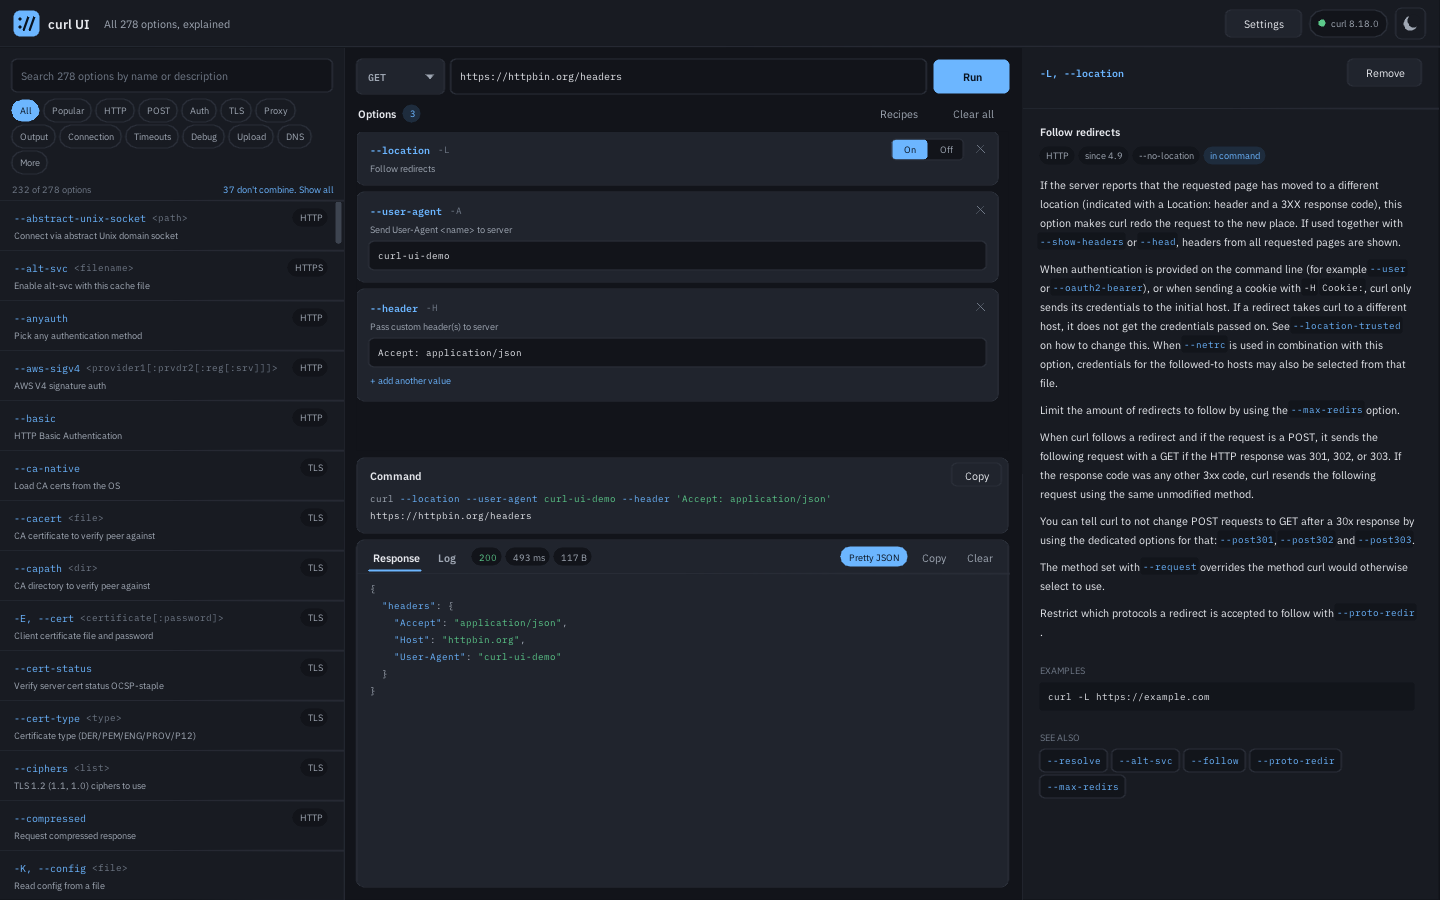
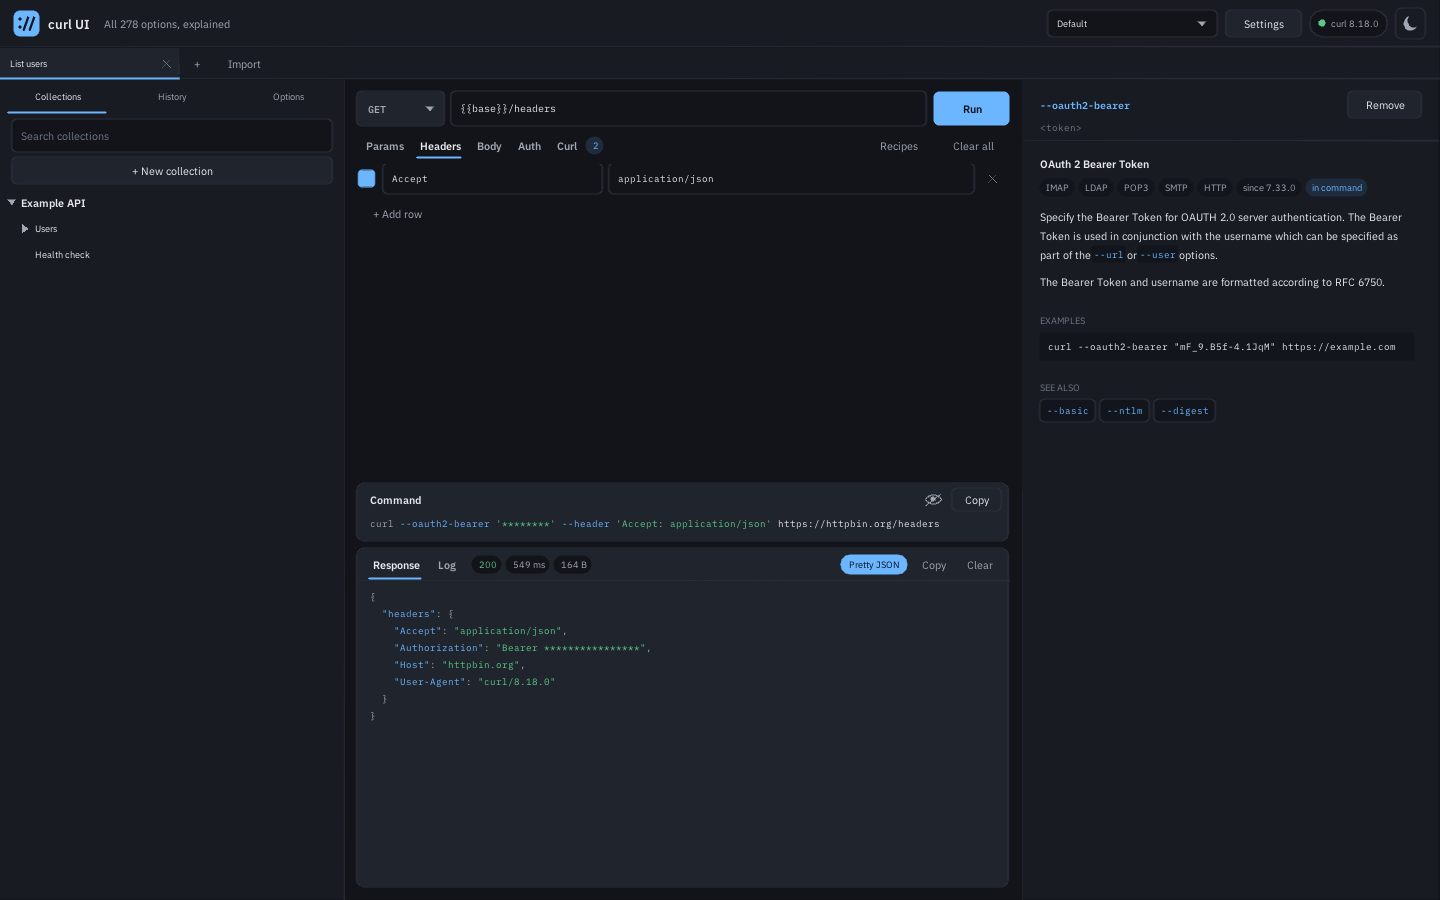
Prepare 0.4.0: README and screenshots for the API client features

diff --git a/README.md b/README.md
@@ -14,12 +14,14 @@ not included: packages depend on it, and the app uses the one on your system.
 
 - **Your real curl, nothing simulated.** The app starts the `curl` on your system
   with an argument array and no shell, so a result here is a result from curl.
-- **Every option, documented in place.** All 278 options are searchable, and curl's
-  own documentation appears as you hover over one. No switching to a man page.
-- **Only what can work together.** After each choice the list narrows to the options
-  that still combine with what you picked, and says why the others do not.
+- **An API client and all of curl.** Tabs, collections, environments, history and
+  forms for params, headers, body and auth, next to every one of curl's 278 options.
+- **Every option, documented in place.** curl's own documentation appears as you
+  hover over an option, a row or a flag in the command.
+- **Only what can work together.** After each choice the option list narrows to what
+  still combines with what you picked, and says why the others do not.
 - **A command you can take with you.** The exact command is always on screen, and
-  Copy gives you that text for a script, a CI job, a ticket or your documentation.
+  Copy gives you one that runs, for a script, a CI job or a ticket.
 - **Private and local.** No account, no cloud and no telemetry. The app has no
   network code of its own: every connection is made by curl, when you press Run.
 - **Small and native.** C11, SDL2 and Nuklear, with no browser engine. About a 1 MB
@@ -29,19 +31,21 @@ not included: packages depend on it, and the app uses the one on your system.
 
 | You are | It helps you |
 |---|---|
-| A backend or API developer | try an endpoint and see status, time, size and formatted JSON, then keep the command |
-| A QA or support engineer | reproduce a problem and attach the exact command and its log to the report |
+| A backend or API developer | keep your requests in collections, switch between environments, and see status, time, size and formatted JSON |
+| A QA or support engineer | reproduce a problem and attach the exact command and its log to the report, with secrets hidden on screen |
 | A DevOps or SRE engineer | check redirects, certificates, proxies and timeouts on the machine in question |
 | Someone learning HTTP or curl | discover options by reading about them, and see what each one really does |
 
 ## Use cases
 
-- **Debug an API call.** Start from the *Send JSON* recipe, add your headers, and run.
-  The Response tab formats the JSON, and the Log tab shows what was sent and received.
+- **Work with an API across environments.** Write `{{base}}/users` once, keep the
+  values in Dev and Prod, and switch from the header. Save the request in a collection.
+- **Debug an API call.** Fill in Auth and Body, and run. The Response tab formats the
+  JSON, and the Log tab shows what was sent and received.
+- **Take over a command you were given.** Press Import, paste the curl command, and it
+  opens as a request you can change and save.
 - **Find out why HTTPS fails.** Add `--cacert`, `--resolve` or `--tlsv1.2`, and read the
   handshake in the Log tab, with the documentation for each option beside it.
-- **Test through a proxy.** Pick the *Proxy* filter, add `--proxy` and its authentication
-  options, and compare the result with a direct request.
 - **Write a command for a script.** Build it with `--retry`, `--connect-timeout` and
   `--max-time`, confirm that it works, and copy it into your CI job.
 - **Transfer files.** Download with `--remote-name` and `--limit-rate`, resume with
@@ -50,9 +54,10 @@ not included: packages depend on it, and the app uses the one on your system.
 
 ## When something else fits better
 
-curl UI runs one request at a time. It has no saved collections, shared team
-workspaces, test suites or import from a pasted command, so a full API client suits
-that work better. For repeated automation, use the copied command directly.
+curl UI has no test scripts or assertions, no running of a whole collection, no
+GraphQL, gRPC or WebSocket views, no mock servers and no shared team workspace. It
+cannot yet import or export Postman collections. A full API platform suits that work
+better, and for repeated automation, use the copied command directly.
 
 ## Install
 
@@ -80,20 +85,58 @@ it is not on `PATH`, click the version pill in the header and enter its path und
 
 ## Using it
 
-- **Library, left:** search names and descriptions, or filter with the chips.
-  Click a row to add that option.
-  Once an option is chosen, the list shows only what can still combine with
-  everything chosen so far: what conflicts, and what belongs to another protocol
-  (`--ftp-pasv` rules out `--user-agent`), steps aside, with a count and a Show all
-  link to see it anyway. Removing an option brings back what it ruled out.
-  Deprecated options stay out of the list unless you search or use the Deprecated
-  filter under More, which is why it starts at 269 of 278.
-- **Centre:** method and URL on top, a card per added option, the exact command
-  below (Copy gives the same text), and the output with Response and Log tabs.
-  Press Enter in the URL, or Run. Recipes are starting points.
-- **Docs, right:** hover a library row, a card or a flag in the command and that
-  option's full documentation appears, and stays while you move over to read.
-  Every `--option` in it is a link.
+- **Left:** Collections, History and Options. Options lists every curl option: search
+  names and descriptions, filter with the chips, and click a row to add it. Once an
+  option is chosen, the list shows only what can still combine with everything chosen
+  so far: what conflicts, and what belongs to another protocol (`--ftp-pasv` rules out
+  `--user-agent`), steps aside, with a count and a Show all link to see it anyway.
+  Removing an option brings back what it ruled out. Deprecated options stay out of the
+  list unless you search or use the Deprecated filter under More, which is why it
+  starts at 269 of 278.
+- **Centre:** method and URL on top, then Params, Headers, Body, Auth and Curl, the exact
+  command, and the output with Response and Log tabs. Press Enter in the URL, Ctrl/Cmd+Enter,
+  or Run. Recipes are starting points.
+- **Right:** hover a library row, a card, a form row or a flag in the command and that
+  option's full documentation appears, and stays while you move over to read. Every
+  `--option` in it is a link.
+
+### Forms and options
+
+The forms are views of curl's options, not a second set of settings. What you do in one
+shows in the other and in the command. If the options say more than a form can show, such
+as `--data` together with `--form`, the form says **Set by options** and leaves them alone.
+
+| Form | Curl options |
+|---|---|
+| Params | the query of the URL, percent encoded. You type plain text |
+| Headers | `--header` |
+| Body | `--data-raw`, `--json`, `--form-string` and `--form`, `--data-urlencode`, `--data-binary @file` |
+| Auth | Basic: `--basic --user`, which sends `Authorization: Basic base64(username:password)`. Digest: `--digest --user`. Bearer: `--oauth2-bearer`. API key: a header or a query parameter |
+
+### Variables
+
+Write `{{name}}` in the URL or any option. Values come only from the table in the
+**Variables** tab, opened from the environment menu in the header, with one table per
+environment. The operating system's environment is not read, and variables are not passed
+to it or to curl's environment.
+
+Running with a variable that has no value sends nothing and asks for it, then saves it in
+the table and carries on. curl receives the real value, so the final command does not
+contain `{{name}}`. What you save keeps `{{name}}`: values stay in the table.
+
+A variable marked **Secret** shows as stars in the table and the command, each with an eye
+to see it. Copy gives the real value, so the command runs, and says so. In the Response and
+the Log, secret values are hidden as they are, percent encoded, and as the
+`base64(username:password)` of Basic auth.
+
+### Collections, tabs and history
+
+Each tab has its own request, response and run, and several can run at once. Ctrl/Cmd+S saves
+a tab into a collection, and a dot marks unsaved changes. Ctrl/Cmd+T opens a tab, and
+Ctrl/Cmd+W closes one. Open tabs come back at the next start. History keeps the last 500 runs, as
+written, without responses. **Import**, next to the tabs, turns a pasted curl command into a
+request. Nothing runs, and what only a shell could give a meaning to, such as a pipe or
+`$HOME`, is refused by name.
 
 To fill the Log tab and the status chips, a run also passes `--verbose`,
 `--no-progress-meter` and `--write-out` to curl, when you did not set them
@@ -103,17 +146,29 @@ with no shell. This can be turned off in Settings.
 
 ### Screenshots
 
-| Only what combines, or everything with the reason | The verbose log, in the light theme |
+| Variables, with secrets hidden | Asking for what is missing |
 |---|---|
-| ![The option list with Show all on, marking options that do not combine with --http2](docs/screenshots/combine.png) | ![The Log tab of a finished request in the light theme](docs/screenshots/light-log.png) |
+| ![The Variables table with an environment, a plain value and a hidden secret](docs/screenshots/variables.png) | ![A prompt for two missing variables, with Save & Run](docs/screenshots/modal.png) |
 
-| Recipes to start from | Options filtered by topic |
+| Params, as plain text | Auth |
 |---|---|
-| ![Recipe cards such as Fetch JSON, Send JSON and Debug a request](docs/screenshots/recipes.png) | ![The Proxy filter with --proxy added and its documentation open](docs/screenshots/proxy.png) |
+| ![The Params table showing a decoded query next to the encoded URL](docs/screenshots/params.png) | ![The Basic auth form using a variable for the password](docs/screenshots/auth.png) |
 
-| Settings | Guidance instead of a cryptic error |
+| Body | History |
 |---|---|
-| ![The Settings page with theme, text size, curl program and behaviour](docs/screenshots/settings.png) | ![A request without a URL: the URL bar is highlighted and the app explains what is missing](docs/screenshots/missing-url.png) |
+| ![The Body form with a JSON body using a variable](docs/screenshots/body.png) | ![The last runs with status, time and size](docs/screenshots/history.png) |
+
+| Only what combines, or everything with the reason | Importing a curl command |
+|---|---|
+| ![The option list with Show all on, marking options that do not combine with --http2](docs/screenshots/combine.png) | ![A pasted curl command in the Import dialog](docs/screenshots/import.png) |
+
+| The verbose log, in the light theme | Recipes to start from |
+|---|---|
+| ![The Log tab of a finished request in the light theme](docs/screenshots/light-log.png) | ![Recipe cards such as Fetch JSON, Send JSON and Debug a request](docs/screenshots/recipes.png) |
+
+| Settings |
+|---|
+| ![The Settings page with theme, text size, curl program and behaviour](docs/screenshots/settings.png) |
 
 ## Settings
 
@@ -130,7 +185,7 @@ the values in bold.
 | Ignore ~/.curlrc | On, **Off** | Starts every command with `--disable` | `ignore_curlrc`: `1`, `0` |
 | Pretty JSON by default | **On**, Off | Formats valid JSON responses | `pretty_json`: `1`, `0` |
 | Fill the Log tab and status chips | **On**, Off | Adds `--verbose`, `--no-progress-meter` and `--write-out` to runs | `capture_log`: `1`, `0` |
-| Remember the last request | On, **Off** | Restores the request at the next start | `remember_request`: `1`, `0` |
+| Reopen tabs | **On**, Off | Open tabs come back at the next start | `reopen_tabs`: `1`, `0` |
 | Docs hover delay | Instant, **Normal**, Slow | How long to hover before the docs change | `docs_hover_ms`: `0`, `110`, `300` |
 
 The window size is kept too, as `window_width` and `window_height`, with no control
@@ -149,10 +204,22 @@ lines or your own comments. The file also accepts values the app does not offer:
 `text_size` from 50 to 400 and `docs_hover_ms` from 0 to 2000. Then no choice is
 highlighted on that row until you pick one.
 
-With Remember the last request on, the request goes to `last-request.txt` next to the
-settings, including any password in it. Both files are readable only by you on Linux
-and macOS; on Windows they get the default permissions of your profile folder.
-Turning the setting off deletes that file when the app closes.
+### Files
+
+Next to `settings.ini`, private to you on Linux and macOS, and with the default permissions of
+your profile folder on Windows:
+
+| File | Holds |
+|---|---|
+| `variables.json` | environments and the values of variables, secrets included, as plain text |
+| `collections/*.json` | saved requests, one file per collection, with `{{name}}` |
+| `session.json` | open tabs, unless Reopen tabs is off |
+| `history.jsonl` | the last 500 runs as written, without responses |
+
+A password or token written directly into a request, rather than as a `{{variable}}`, goes
+into collections, tabs and history as written. The Auth form warns about it. A damaged file is
+set aside as `NAME.bad-N` and reported, never overwritten. A collection from a newer version is
+only shown.
 
 On a Wayland session the app uses the native backend when libdecor is installed,
 and XWayland otherwise. Set `SDL_VIDEODRIVER=x11` to force X11. `CURLUI_TRACE=1`
@@ -196,6 +263,10 @@ tests. CI fails if the committed table differs from what that release generates.
 `ctest` covers the core and runs every option through the builder and process
 runner, then through a real curl that parses it and stops before any transfer.
 
+`tests/live/test_*.py --ui build/curl-ui` drive the real app and judge it by what a local
+server receives: large values, tabs, variables and secrets, the forms, saving and history,
+and importing. They need only Python, and CI runs them on every platform.
+
 `tests/live/live_options.py --ui build/curl-ui` goes further: each of the 278
 options is added to the real app, run, and judged by what came back, from public
 test services (httpbin.org, badssl.com, test.rebex.net and others) and from local
@@ -225,6 +296,19 @@ saves the image and exits; `SDL_VIDEODRIVER=dummy` makes that work headless.
 | `--wheel X,Y,DELTA` | scripted wheel |
 | `--type TEXT` | scripted typing; a newline is Enter |
 | `--screenshot FILE.bmp` | save the result and exit |
+| `--add-file NAME=PATH` | add an option with its value from a file |
+| `--paste-file PATH` | scripted paste of a file into the focused field |
+| `--tab`, `--select-tab N`, `--close-tab N` | new tab, and scripted change of tab; `--url`, `--add` and `--run` apply to the latest |
+| `--no-wait` | do not wait for runs to end before the screenshot |
+| `--var NAME=VALUE`, `--secret NAME=VALUE`, `--env NAME` | fill the table of variables |
+| `--open-vars`, `--reveal` | open the Variables tab; show secrets in the command |
+| `--modal-value NAME=VALUE`, `--modal-action save\|cancel\|open` | scripted answer to the prompt for missing variables |
+| `--form params\|headers\|body\|auth\|curl` | show a form |
+| `--set-param K=V`, `--param-off K`, `--set-header "N: V"` | fill a table |
+| `--set-body KIND TEXT`, `--set-auth KIND A B` | fill a form, as kinds `raw`, `json`, `file`, `urlencoded`, `form-data`, `form-data-file`, and `basic`, `digest`, `bearer`, `apikey-header`, `apikey-query` |
+| `--sidebar collections\|history\|options` | show a left view |
+| `--save-as COLLECTION/FOLDER/NAME`, `--open-node ID`, `--open-history N` | save and open requests |
+| `--import-cmd TEXT` | import a curl command |
 | `--stats` | print UI time per frame |
 | `--settings-dir DIR` | keep settings in DIR. Scripted runs with `--screenshot` otherwise use none |
 
@@ -233,6 +317,13 @@ saves the image and exits; `SDL_VIDEODRIVER=dummy` makes that work headless.
 ```
   src/core/       no SDL, unit tested
     options*      the option table and search
+    vars, mask    variables, and hiding secrets
+    forms         the forms, over curl's options
+    urlquery      percent encoding and the query of a URL
+    json, reqjson the JSON tree, and requests in it
+    collection, history, cmdparse  saved requests, runs, a pasted command
+    argfile       arguments too long for a command line
+    fileio        private files, replaced whole
     builder       options -> argv, shell-quoted preview
     procrun       posix_spawn / CreateProcessW runner
     outbuf        thread-safe, line-indexed, sanitizing output buffer
@@ -251,19 +342,30 @@ saves the image and exits; `SDL_VIDEODRIVER=dummy` makes that work headless.
 
 ## Known limitations
 
+- Values of variables, secrets included, are plain text in a file only your account can
+  read. They are not protected from something running as you.
+- During a run, values are arguments of curl, which other processes on the machine may
+  see, as with curl in a terminal. A very long one goes through a private temporary file
+  for as long as the run lasts, secrets included, and a crash can leave it until the next start.
+- Hiding secrets in the output is not a guarantee: other encodings, and a value split across
+  lines, are not recognised. An `--output` file holds what the server sent.
+- Text meant to be sent as a literal `{{x}}` cannot be: the app asks for its value.
+- A value already percent encoded is encoded again when it goes into a query.
+- There is no limit from the app on the size of a value. A body goes through a file, with
+  no limit at all. Any other value is limited by what curl reads from a config line: 10 MB,
+  or 100 KB before curl 8.2. Past 8 KB a field shows the size, with Replace from clipboard
+  and Clear, instead of the text. A copied command with a huge value may be too long for a terminal.
 - No native file picker: type paths into the value fields.
 - An option with an empty value is left out of the command, so a deliberately
   empty argument such as `-A ""` cannot be expressed.
-- Options keep the order they were added, with the URL last. That is enough for
-  most uses; `--next` sequences that need several URLs are not modelled, though
-  `--url` can be added as an option.
-- Output is held up to 8 MB; use `--output` for more. Text cannot be selected in
+- Options keep the order they were added, with the URL last. `--next` sequences that need
+  several URLs are not modelled, though `--url` can be added as an option. Parts of a form-data
+  body go text first, then files.
+- Output is held up to 8 MB per tab; use `--output` for more. Text cannot be selected in
   the output, Copy takes the whole tab.
 - At fractional desktop scales such as 125%, text is slightly softer than at 100%
   or 200%.
 - `~` is not expanded in paths, since no shell is involved: use full paths.
-- Text fields scroll sideways rather than wrap; long bodies are easier with
-  `--data @file`.
 - Line editing has no right-to-left or complex script shaping, and glyphs outside
   Latin, Greek and Cyrillic show as missing.
 
